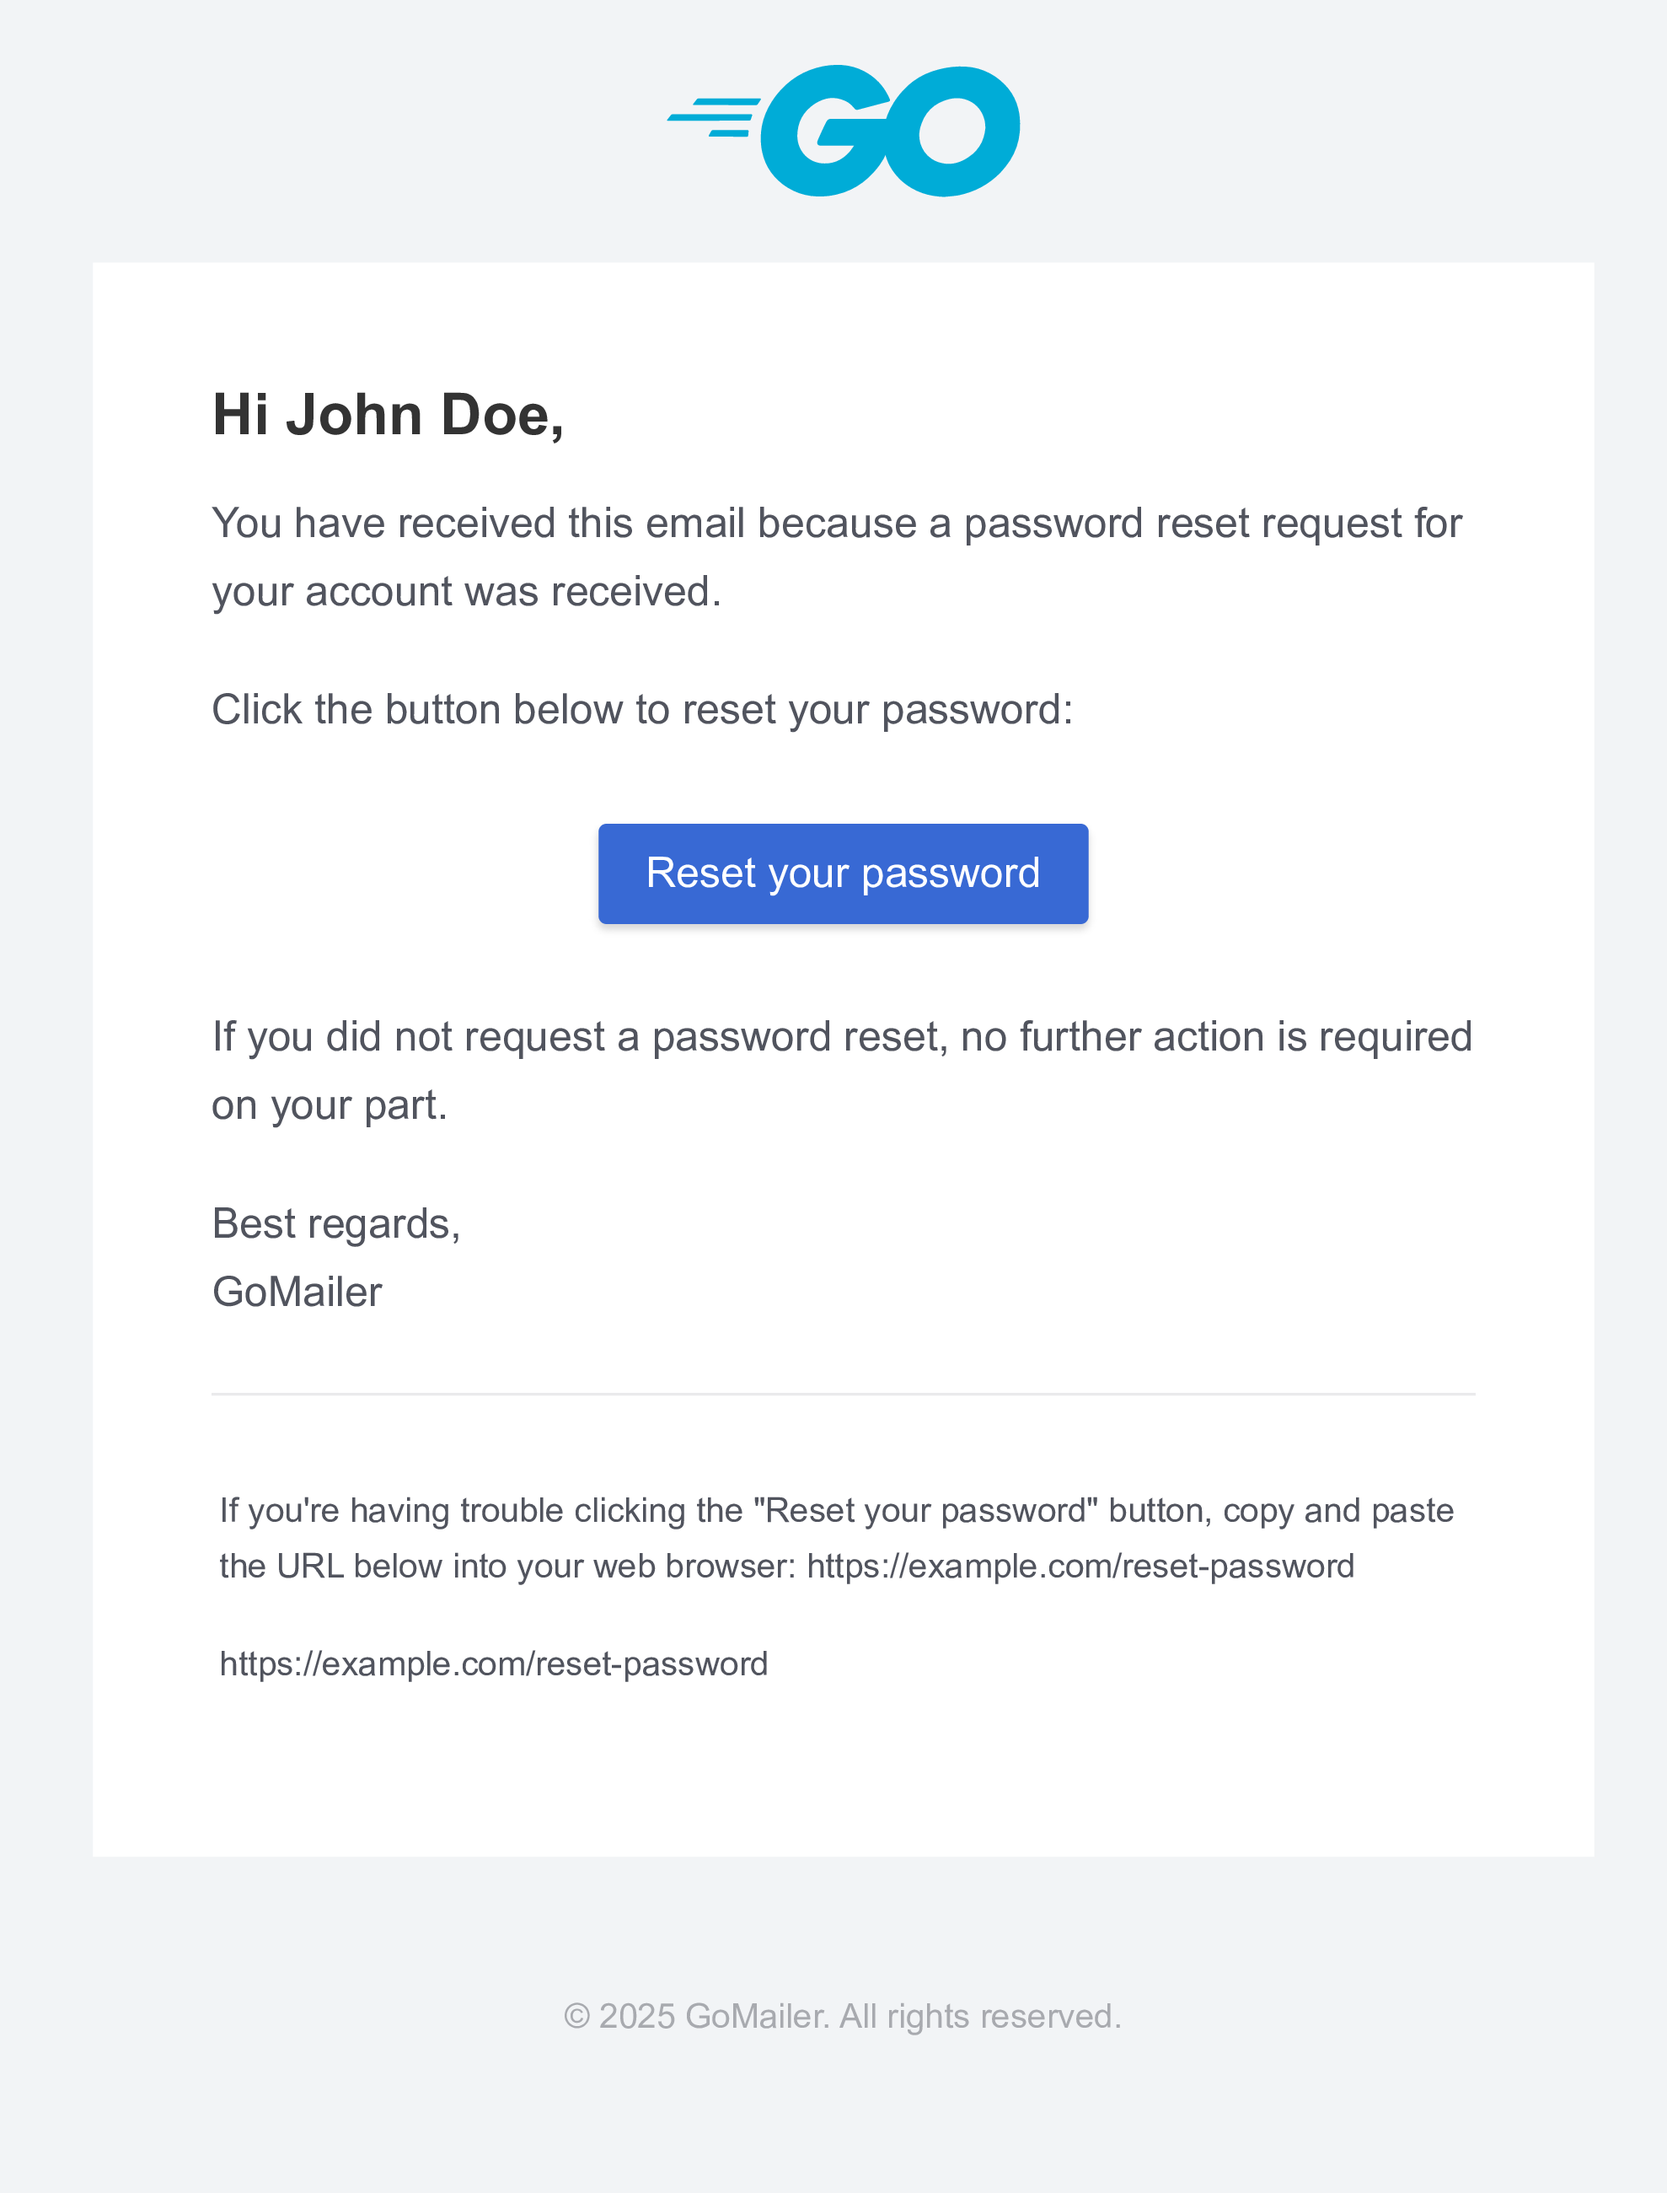
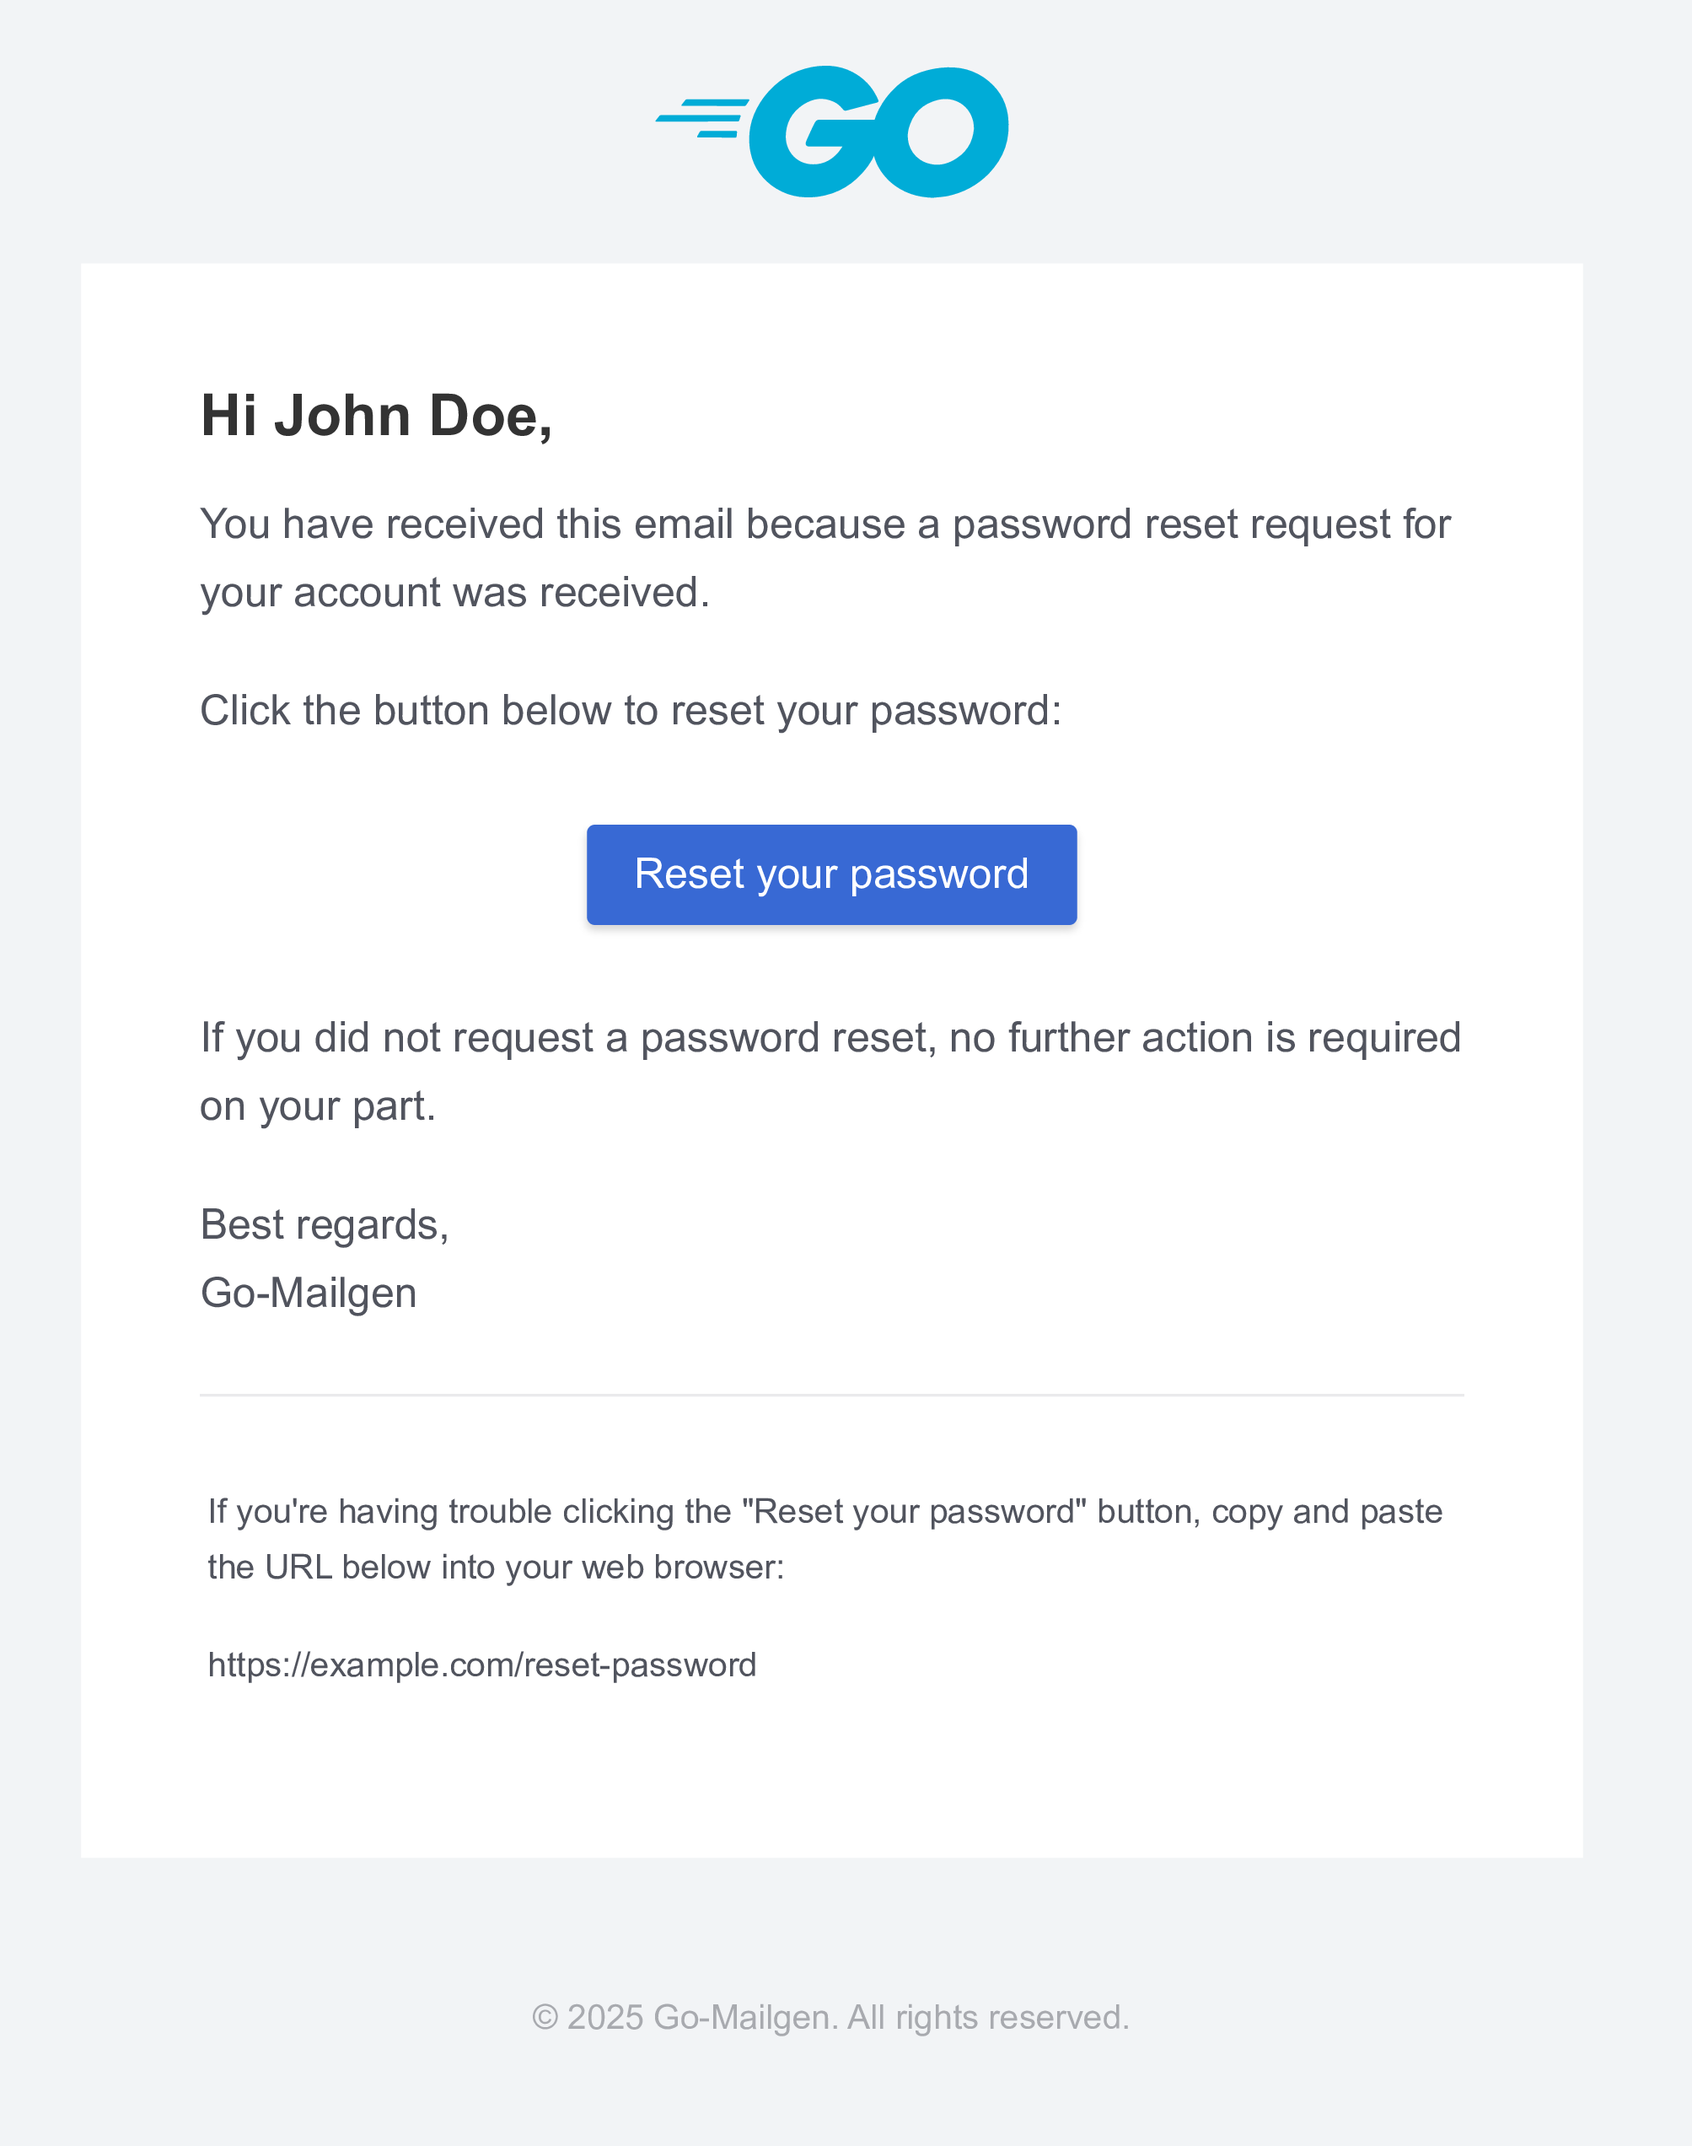
feat: update screenshots and some documentation

diff --git a/builder.go b/builder.go
@@ -121,6 +121,16 @@ func (b *Builder) clone() *Builder {
 // SetDefault sets the default Builder instance.
 //
 // It can be useful for set global defaults or configurations for the email messages.
+//
+// Example usage:
+//
+//	mailgen.SetDefault(mailgen.New().
+//		Product(mailgen.Product{
+//			Name: "Go-Mailgen",
+//			Link: "https://github.com/ahmadfaizk/go-mailgen",
+//			Logo: "https://upload.wikimedia.org/wikipedia/commons/0/05/Go_Logo_Blue.svg",
+//		}).
+//		Theme("default"))
 func SetDefault(b *Builder) {
 	if b == nil {
 		return
@@ -132,7 +142,7 @@ func SetDefault(b *Builder) {
 //
 // Example usage:
 //
-//	message := mailer.NewMessage().
+//	message := mailgen.New().
 //		Subject("Reset Password").
 //		To("recipient@example.com").
 //		Line("Click the button below to reset your password").
@@ -229,7 +239,8 @@ func (b *Builder) TextDirection(direction string) *Builder {
 //
 // Example usage:
 //
-//	message.FallbackFormat("If you're having trouble clicking the \"[ACTION]\" button, copy and paste the URL below into your web browser:")
+//	email := mailgen.New().
+//		FallbackFormat("If you're having trouble clicking the \"[ACTION]\" button, copy and paste the URL below into your web browser:")
 func (b *Builder) FallbackFormat(format string) *Builder {
 	if format == "" {
 		return b // No format provided, do nothing
@@ -285,9 +296,14 @@ func (b *Builder) Linef(format string, args ...interface{}) *Builder {
 	return b.Line(text)
 }
 
-// Action sets the action text and URL for the email message.
-// It creates a button in the email that links to the specified URL.
-// The action can also include an optional instruction and color for the button.
+// Action sets the action text and link for the email message.
+// It creates a button that the recipient can click to perform an action.
+//
+// Example usage:
+//
+//	email := mailgen.New().
+//		Line("Click the button below to get started").
+//		Action("Get Started", "https://example.com/get-started")
 func (b *Builder) Action(text, link string, cfg ...Action) *Builder {
 	action := &component.Action{
 		Text:  text,
@@ -331,8 +347,9 @@ func (b *Builder) Product(product Product) *Builder {
 //
 // Example usage:
 //
-//	message.Table(mailer.Table{
-//		Data: [][]mailer.Entry{
+//	email := mailgen.New().
+//		Table(mailgen.Table{
+//			Data: [][]mailgen.Entry{
 //			{
 //				{Key: "Name", Value: "John Doe"},
 //				{Key: "Email", Value: "john.doe@example.com"},
@@ -342,7 +359,7 @@ func (b *Builder) Product(product Product) *Builder {
 //				{Key: "Email", Value: "jane.smith@example.com"},
 //			},
 //		},
-//		Columns: mailer.Columns{
+//		Columns: mailgen.Columns{
 //			CustomWidth: map[string]string{
 //				"Name":  "50%",
 //				"Email": "50%",
@@ -363,7 +380,9 @@ func (b *Builder) Table(table Table) *Builder {
 }
 
 // Build generates the final Message object with the HTML and plaintext content.
+//
 // It processes all the components, actions, and other fields set in the Builder.
+//
 // Returns an error if there is an issue generating the HTML or plaintext content.
 func (b *Builder) Build() (Message, error) {
 	b.beforeBuild()

diff --git a/message.go b/message.go
@@ -1,15 +1,24 @@
 package mailgen
 
+// Message represents an email message with its components.
 type Message interface {
+	// Subject returns the subject of the email.
 	Subject() string
+	// From returns the sender's address.
 	From() Address
+	// To returns the list of recipient addresses.
 	To() []string
+	// Cc returns the list of CC addresses.
 	Cc() []string
+	// Bcc returns the list of BCC addresses.
 	Bcc() []string
+	// HTML returns the HTML content of the email.
 	HTML() string
+	// PlainText returns the plain text content of the email.
 	PlainText() string
 }
 
+// Address represents an email address with an optional name.
 type Address struct {
 	Name    string
 	Address string

diff --git a/README.md b/README.md
@@ -7,16 +7,17 @@
 [![Go Version](https://img.shields.io/github/go-mod/go-version/ahmadfaizk/go-mailgen)](https://golang.org/doc/devel/release.html)
 [![License](https://img.shields.io/badge/license-MIT-blue.svg)](LICENSE)
 
+<div align="center"><img src="./logo.png" width="150" alt="go-mailgen logo"/></div>
+
 **Go-Mailgen** is a Go library for generating professional HTML emails using a fluent, intuitive API. Simplify email creation with customizable templates and seamless integration into your Go applications. This project is inspired by the [mailgen](https://github.com/eladnava/mailgen) Node.js package, bringing its elegant email generation approach to the Go ecosystem.
 
 ## Features
 
 - **Fluent API**: Build emails with a clean, chainable interface.
 - **Inline CSS**: Ensures compatibility across major email clients.
-- **Template-Based**: Use pre-built or custom templates for rapid development.
 - **Easy Integration**: Works effortlessly with popular Go mail libraries like go-mail.
 - **Chainable Methods**: Add content, actions, and tables in a straightforward manner.
-- **Global Configuration**: Set default sender, product information, and theme for all emails.
+- **Global Configuration**: Set default base email settings and themes.
 
 ## Installation
 
@@ -54,7 +55,7 @@ func main() {
 		From("no-reply@example.com", "Go-Mailgen").
 		Product(mailgen.Product{
 			Name: "Go-Mailgen",
-			URL:  "https://github.com/ahmadfaizk/go-mailgen",
+			Link: "https://github.com/ahmadfaizk/go-mailgen",
 		}).
 		Theme("default"),
 	)
@@ -89,6 +90,7 @@ func main() {
 You can find more examples in the [examples](examples) directory.
 
 ## Documentation
+
 For detailed documentation, please visit the [Go-Mailgen documentation](https://pkg.go.dev/github.com/ahmadfaizk/go-mailgen).
 
 ## Supported Themes
@@ -97,11 +99,31 @@ The following open-source themes are bundled with this package:
 
 - `default` by [Postmark Transactional Email Templates](https://github.com/ActiveCampaign/postmark-templates)
 
-<img src="examples/default/welcome.png" height="200" /> <img src="examples/default/reset.png" height="200" /> <img src="examples/default/receipt.png" height="200" />
+| Welcome | Reset Password | Receipt |
+|---------|----------------|---------|
+| <img src="examples/default/welcome.png" height="200" /> | <img src="examples/default/reset.png" height="200" /> | <img src="examples/default/receipt.png" height="200" /> |
 
 - `plain` by [Postmark Transactional Email Templates](https://github.com/ActiveCampaign/postmark-templates)
 
-<img src="examples/plain/welcome.png" height="200" /> <img src="examples/plain/reset.png" height="200" /> <img src="examples/plain/receipt.png" height="200" />
+| Welcome | Reset Password | Receipt |
+|---------|----------------|---------|
+| <img src="examples/plain/welcome.png" height="200" /> | <img src="examples/plain/reset.png" height="200" /> | <img src="examples/plain/receipt.png" height="200" /> |
+
+## RTL Support
+
+To change default text direction to RTL, you can use the `TextDirection` method:
+
+```go
+// Set the text direction when creating a new email
+email := mailgen.New().
+	TextDirection("rtl").
+	Line("هذا هو عنوان البريد الإلكتروني الخاص بك")
+// or set it globally
+mailgen.SetDefault(mailgen.New().TextDirection("rtl"))
+// Then build the email as usual
+email := mailgen.New().
+	Line("هذا هو عنوان البريد الإلكتروني الخاص بك")
+```
 
 ## Elements
 
@@ -112,15 +134,12 @@ Go-Mailgen provides several methods to add content to your emails. Here are some
 To add an action button to your email, use the `Action` method:
 
 ```go
-mailgen.New().
+email := mailgen.New().
 	Line("To confirm your email address, please click the button below:").
 	Action("Confirm Email", "https://example.com/confirm")
-```
 
-To add multiple actions to your email, you can chain the `Action` method:
-
-```go
-mailgen.New().
+// To add multiple actions, you can chain the `Action` method:
+email := mailgen.New().
 	Line("To confirm your email address, please click the buttons below:").
 	Action("Confirm Email", "https://example.com/confirm").
 	Line("Or you can visit our website:").
@@ -132,7 +151,7 @@ mailgen.New().
 To add a table to your email, use the `Table` method:
 
 ```go
-mailgen.New().
+email := mailgen.New().
 	Line("Your order has been processed successfully.").
 	Table(mailgen.Table{
 		Data: [][]mailgen.Entry{
@@ -162,7 +181,7 @@ mailgen.New().
 You can chain the `Table` with other methods to add more content to your email:
 
 ```go
-mailgen.New().
+email := mailgen.New().
 	Line("Your order has been processed successfully.").
 	Table(mailgen.Table{
 		Data: [][]mailgen.Entry{
